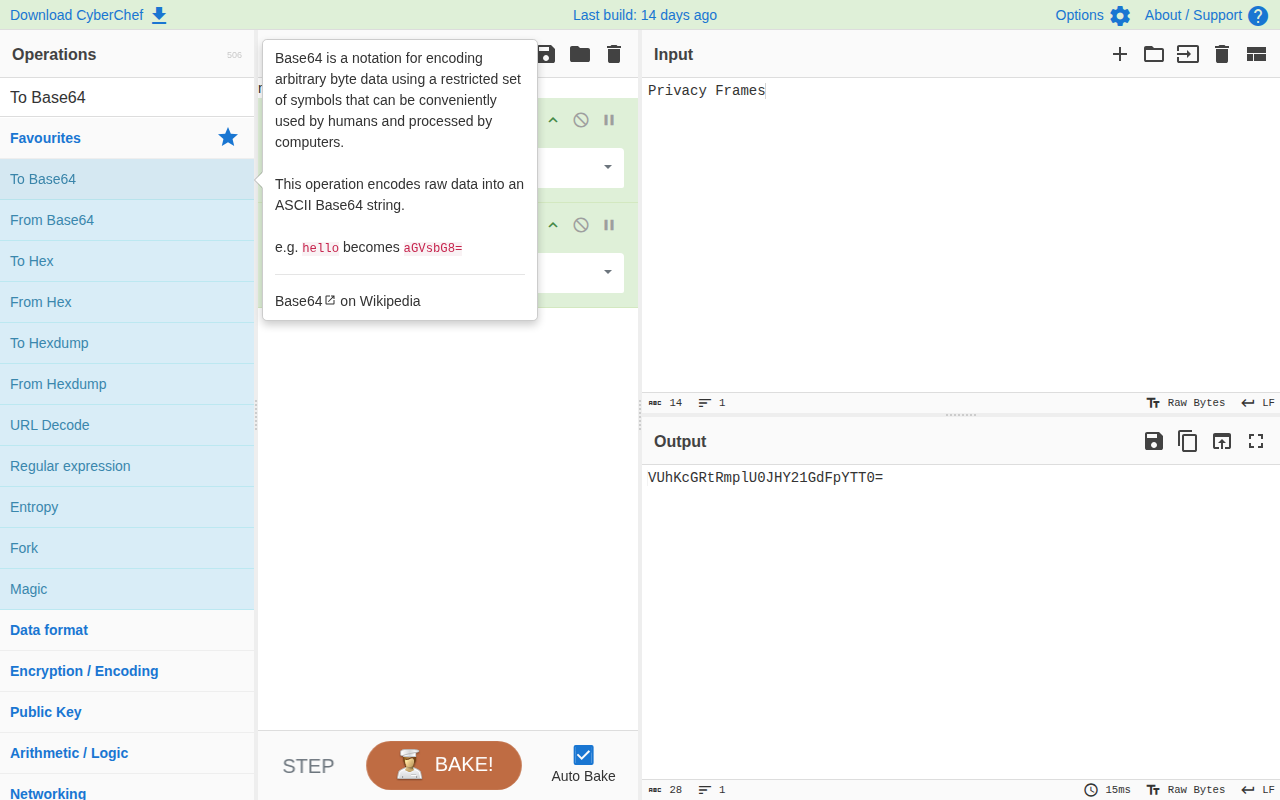
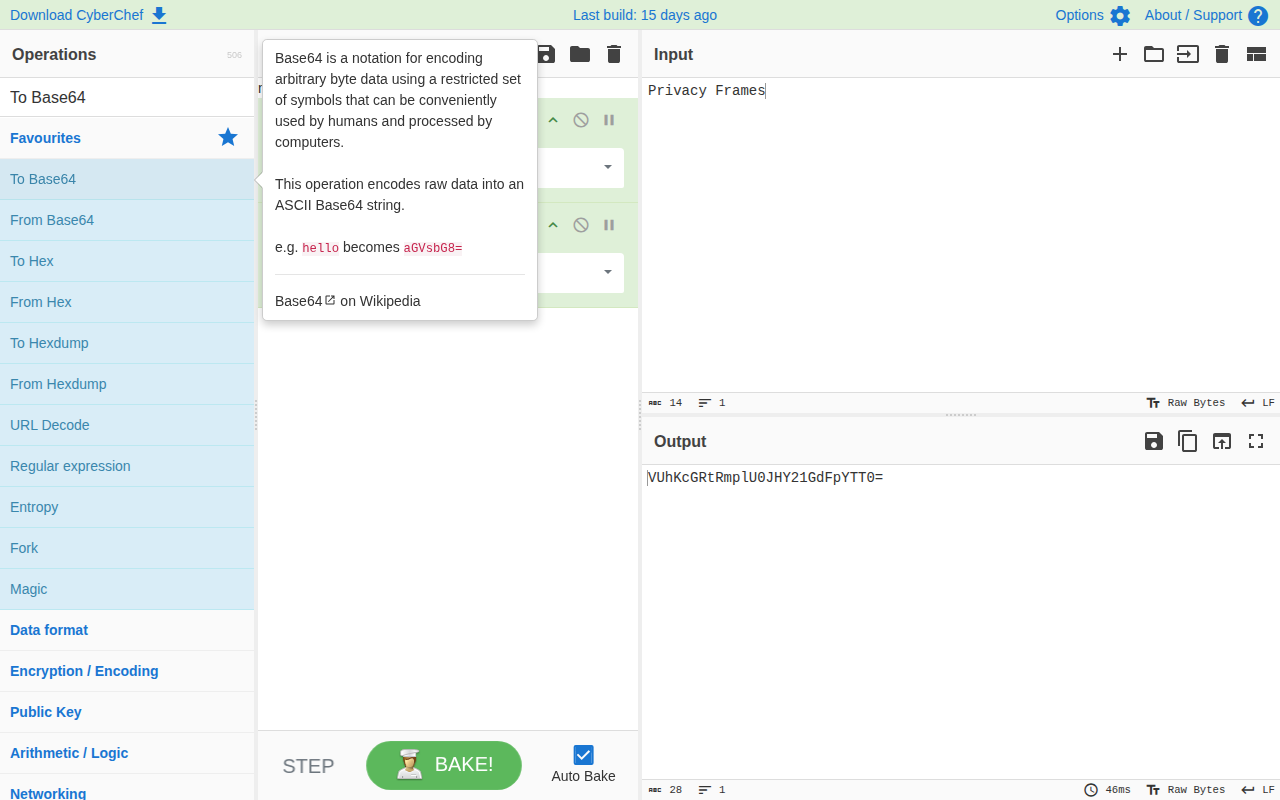
Qualify shared-buffer slicing and document Chrome species limitation

Changed region(s): [[0.2812, 0.9062, 0.4062, 1.0]]

diff --git a/src/guest/native-binary.ts b/src/guest/native-binary.ts
@@ -119,9 +119,9 @@ export class NativeBinary implements GuestHost {
       } catch {
         return;
       }
-      // Wasm exposes a non-extensible SAB wrapper. Native structured clone gives
-      // an extensible wrapper for the SAME data block, with no byte copy. Its
-      // private constructor getter lets native slice preserve guest species.
+      // Some browsers can clone a non-extensible Wasm SAB into an extensible
+      // wrapper for the same data block. When both wrappers are non-extensible,
+      // retain native default species handling; see native-binary-compatibility.md.
       const alias: unknown = clone(target);
       if (!alias || typeof alias !== 'object' || !extensible(alias)) return;
       target = alias;
@@ -264,7 +264,7 @@ export class NativeBinary implements GuestHost {
       const method = entry?.[kind];
       if (typeof method !== 'function')
         throw new TypeError('Binary operation is unavailable');
-      return this.retainResult(apply(method, receiver, arguments_));
+      return this.retainResult(apply(method, this.receiver(receiver), arguments_));
     },
   };
 

diff --git a/test/guest-wasm.browser.ts b/test/guest-wasm.browser.ts
@@ -121,6 +121,19 @@ const cases = [
     `,
   },
   {
+    name: 'Wasm shared-buffer slice copies into a separate shared block',
+    source: `
+      const memory = new WebAssembly.Memory({initial: 1, maximum: 3, shared: true});
+      const buffer = memory.buffer;
+      new Uint8Array(buffer)[0] = 71;
+      const result = SharedArrayBuffer.prototype.slice.call(buffer, 0, 4);
+      check(result instanceof SharedArrayBuffer, 'shared Wasm slice buffer brand');
+      check(result.byteLength === 4 && new Uint8Array(result)[0] === 71, 'shared Wasm slice copies bytes');
+      new Uint8Array(result)[0] = 19;
+      check(new Uint8Array(buffer)[0] === 71, 'shared Wasm slice owns a separate data block');
+    `,
+  },
+  {
     name: 'declared imports use inherited getters without traversing unused fields',
     source: `
       const trace = [];

diff --git a/test/guest-wasm.ts b/test/guest-wasm.ts
@@ -124,8 +124,8 @@ for (const observation of observations) {
   assert.deepEqual(result.policy?.control, [true, true]);
   assert.deepEqual(result.policy?.guest, [false, false]);
   assert.deepEqual(observation.requests, ['/import-probe', '/constructor-probe']);
-  assert.equal(result.native.length, 5);
-  assert.equal(result.guest.length, 5);
+  assert.equal(result.native.length, 6);
+  assert.equal(result.guest.length, 6);
   for (const test of [...result.native, ...result.guest])
     assert(test.passed, JSON.stringify(test));
 }

diff --git a/docs/implementation/native-binary-compatibility.md b/docs/implementation/native-binary-compatibility.md
@@ -1,0 +1,21 @@
+# Native binary compatibility
+
+Ordinary guest arrays use QuickJS storage. Views over native Wasm memory and
+shared buffers use the browser's storage, so a Wasm import callback or another
+worker can read and write the same bytes. `test/guest-wasm.ts` checks callbacks,
+aliases, growth, detachment, atomic updates, native decoding and default shared
+buffer slicing against unrestricted browser controls.
+
+One known difference concerns custom `Symbol.species` on a Wasm shared buffer.
+Chromium 153 exposes `WebAssembly.Memory({shared: true}).buffer` as a
+non-extensible object. Its `structuredClone` wrapper is also non-extensible.
+The bridge cannot attach its private constructor getter to either wrapper.
+Consequently, slicing that buffer uses the native default species and ignores
+a custom species set on the guest `SharedArrayBuffer` constructor. Default
+slicing still produces an independent shared data block with the expected bytes.
+Firefox 155 exposes an extensible wrapper and honors the guest species hook.
+
+The runtime keeps the original shared data block. It does not emulate shared
+memory with a byte copy. A replacement slice algorithm would also need to
+preserve native rejection of a species constructor returning another wrapper
+for the source data block; object identity alone cannot establish that condition.
